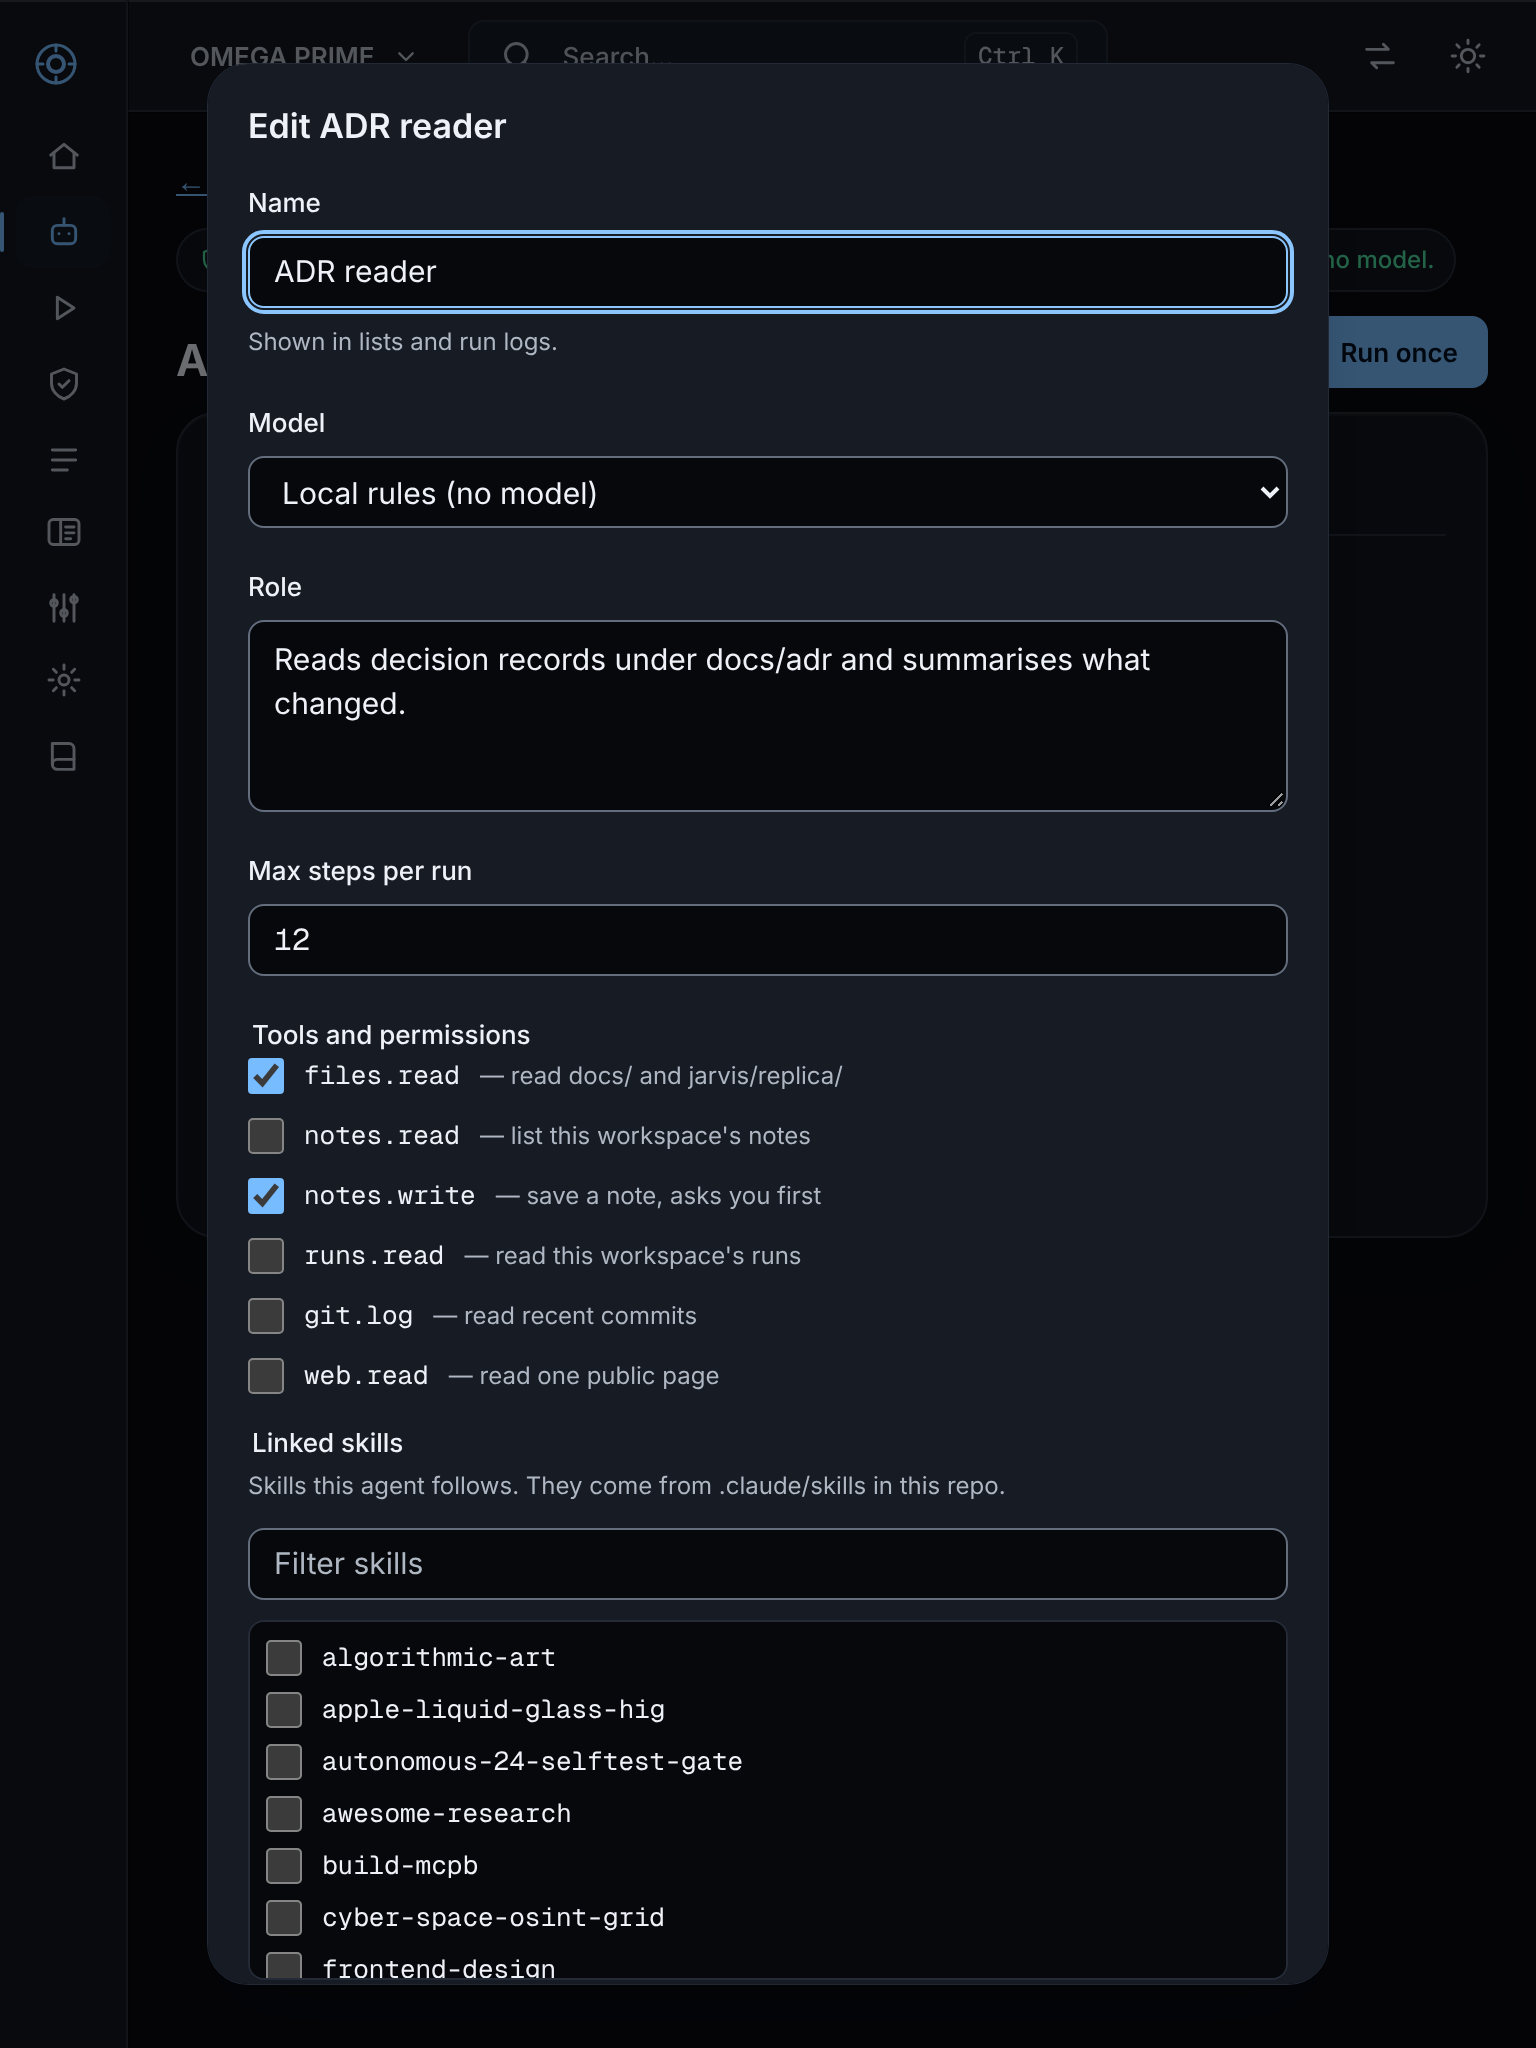
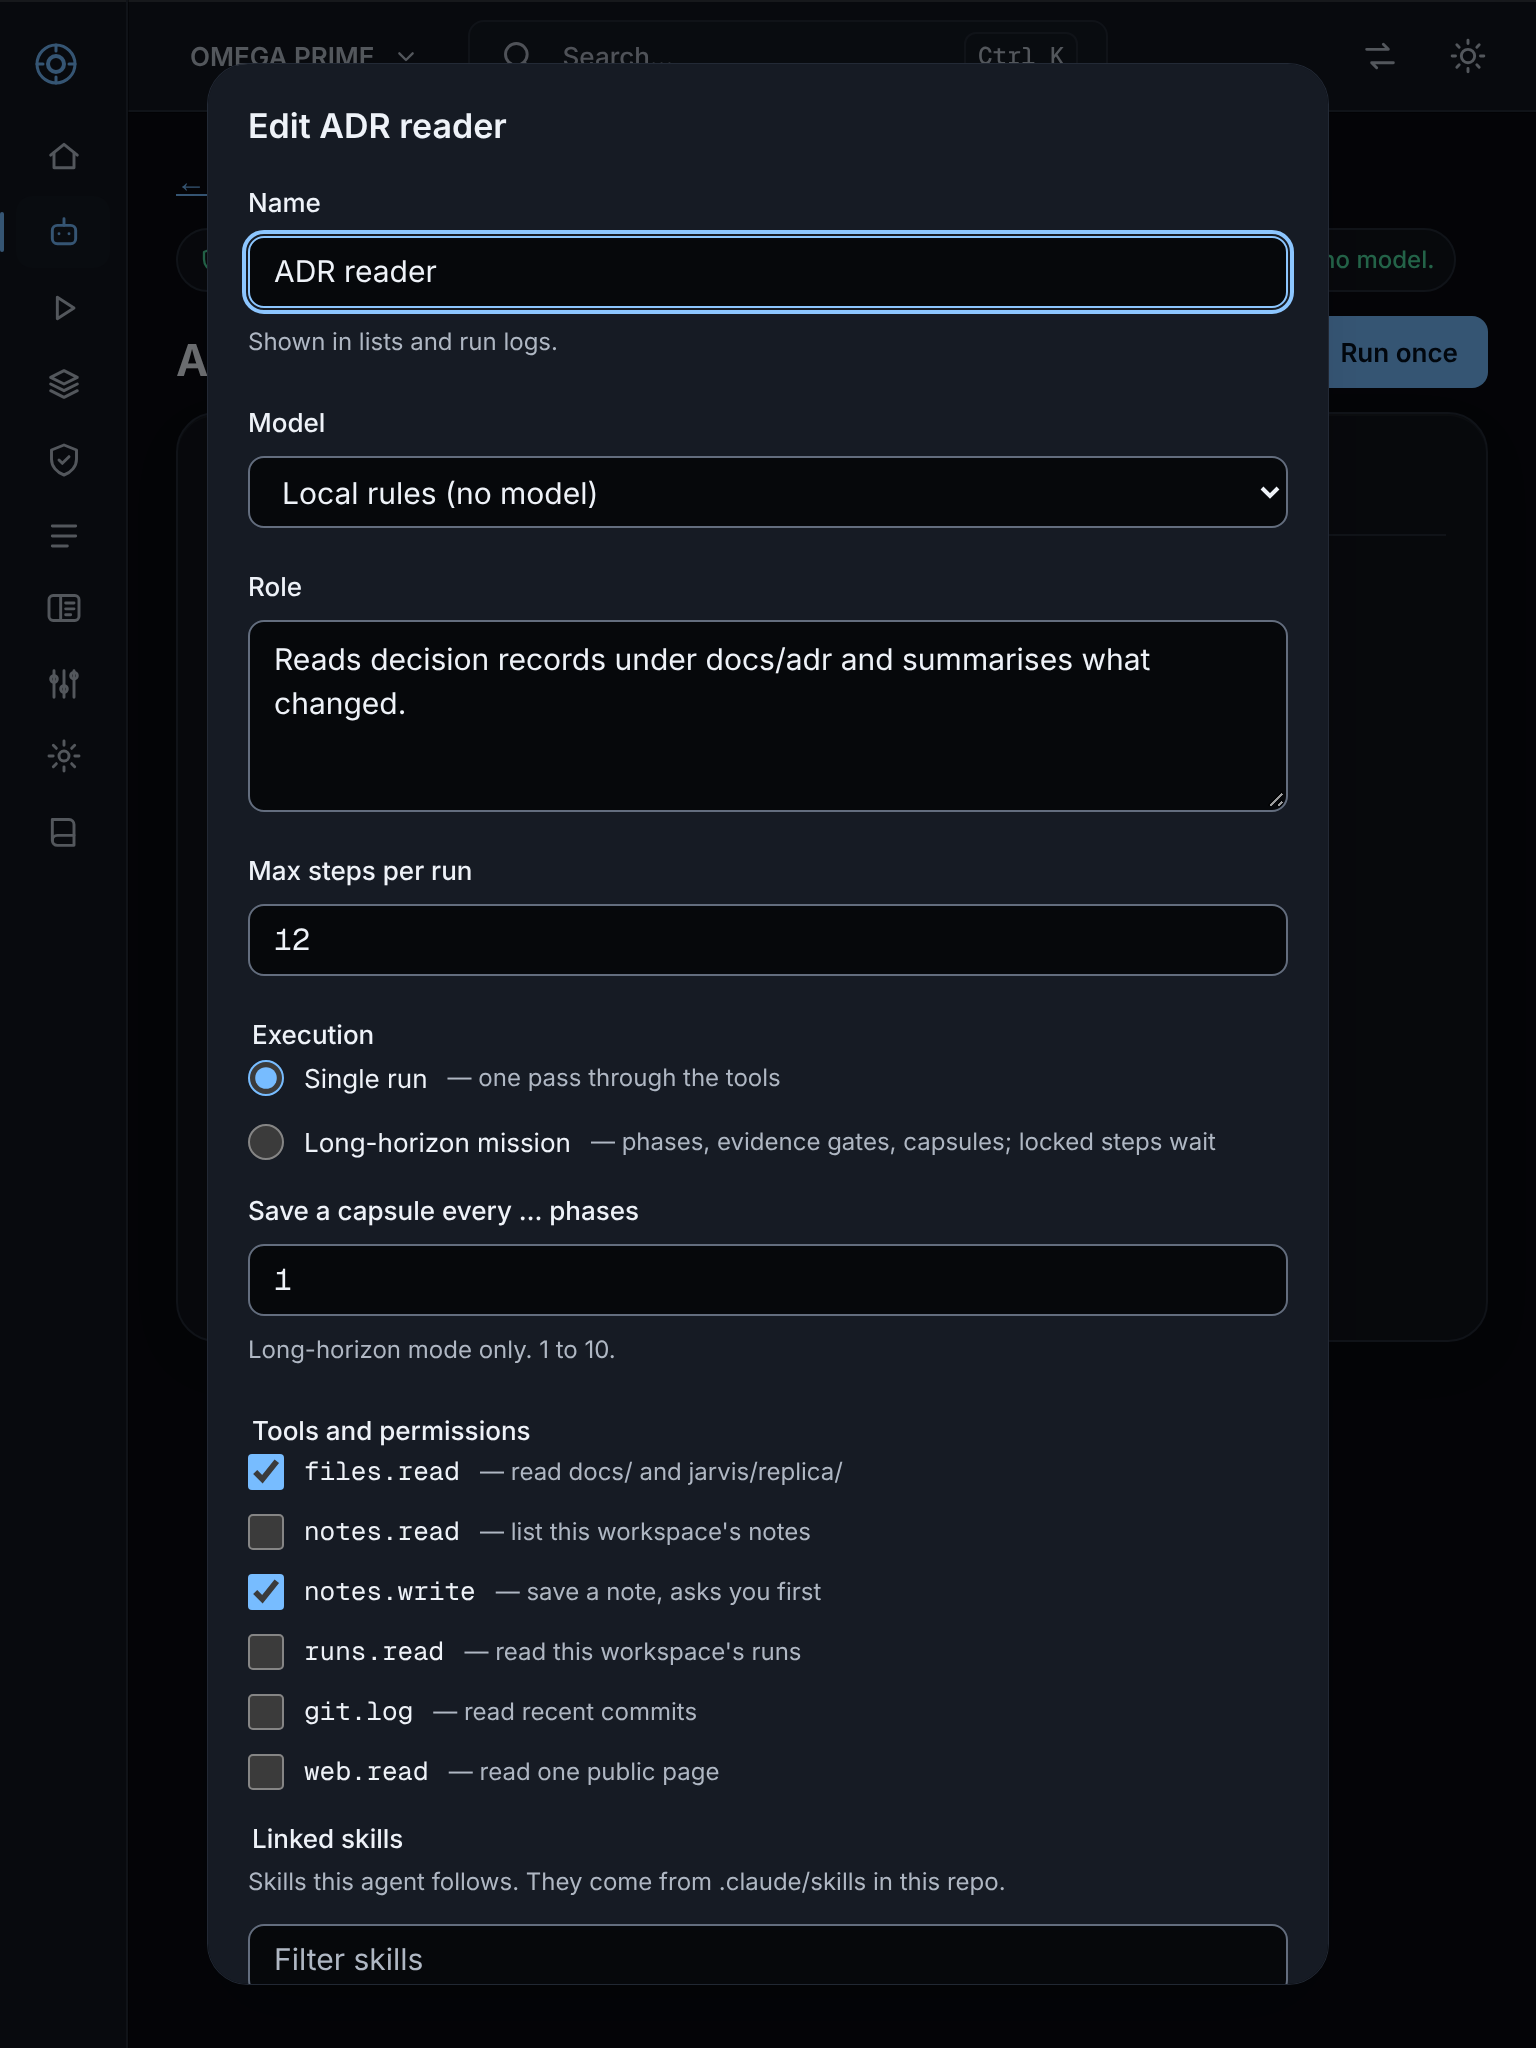
Retina screenshots for ADR-135: Mission Control, template extractor, retaken screens
Claude-Session: https://claude.ai/code/session_014iH4Wtg2Vseqg4bvkjFKQY

diff --git a/README.md b/README.md
@@ -36,3 +36,14 @@ Captured on 2026-11-04 from the live local server (`jarvis/server`, SQLite) with
 | --- | --- | --- | --- |
 | dark | ![locked-approvals dark 1440](retina/locked-approvals-dark-1440.png) | ![locked-approvals dark 768](retina/locked-approvals-dark-768.png) | ![locked-approvals dark 375](retina/locked-approvals-dark-375.png) |
 | light | ![locked-approvals light 1440](retina/locked-approvals-light-1440.png) | ![locked-approvals light 768](retina/locked-approvals-light-768.png) | ![locked-approvals light 375](retina/locked-approvals-light-375.png) |
+
+## ADR-135 (2026-11-05)
+
+Mission Control on the live server (giant-core's "Release readiness" mission, run for real), dark and light, at 1440, 768 and 375, deviceScaleFactor 2:
+
+- `mission-control-*`: phases, steps and the side panel (context health, capsules);
+- `mission-locked-step-*`: the locked publish step as a «بانتظار الموافقة» card while the other steps carried on;
+- `mission-capsules-*`: inspecting capsule #2 (hash check and saved states);
+- `missions-list-*`.
+
+The Studio, Skill Mixer, agent editor and locked approval shots were retaken from the same build. The Studio shots now show the template extractor: Jarvis tokens and a glass bar.
